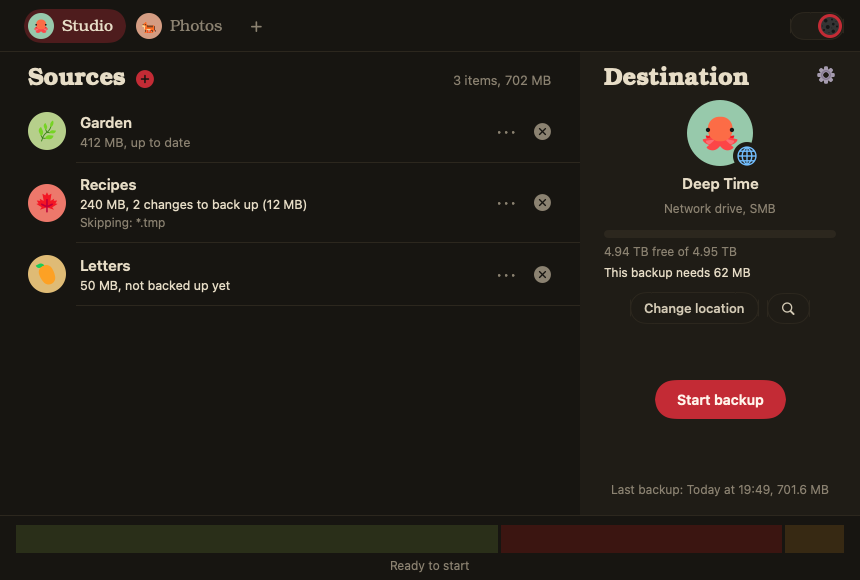
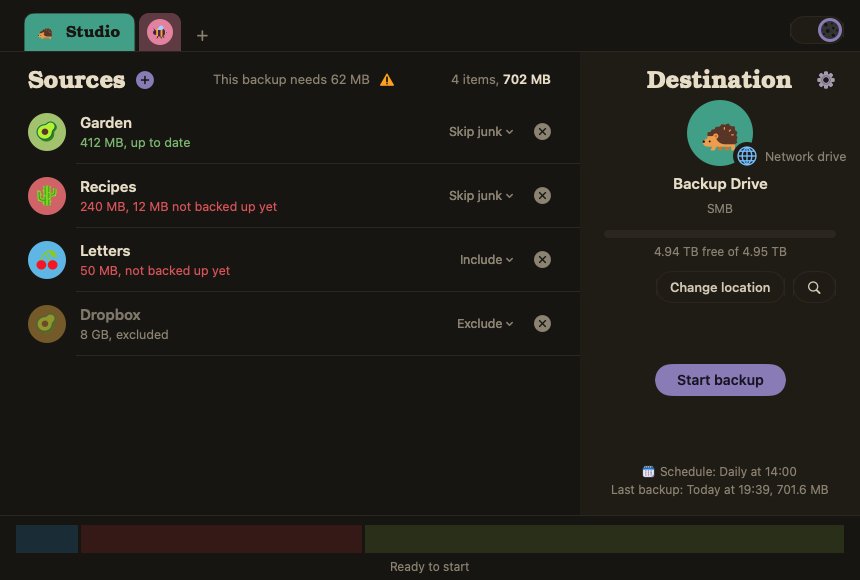
Archivist: new mark (Thoth on lavender), current window shots, docs re-rendered

diff --git a/site/docs/archivist/04-settings.html b/site/docs/archivist/04-settings.html
@@ -35,7 +35,7 @@
   </nav>
   <main>
 <h1 id="settings">Settings</h1>
-<p>The ⚙ at the top right of the Destination panel opens the settings of the selected backup.</p>
+<p>The ⚙ at the top right of the Destination panel, or the <strong>Scheduled backup</strong> line under it, opens the settings of the selected backup. Click outside the panel to close it.</p>
 <p><a class="shot" href="img/settings.png" target="_blank" rel="noopener"><span class="shot-bar" aria-hidden="true"><i></i><i></i><i></i></span><img alt="The settings sheet: name, picture, colour, schedule, earlier versions" src="img/settings.png" /></a></p>
 <h2 id="name-picture-colour">Name, picture, colour</h2>
 <p>The name is the backup's title in the tabs along the top. The picture and colour mark it everywhere: on its tab, on the destination, on the folder it writes. Pick any of the animals and any of the colours.</p>
@@ -47,8 +47,8 @@
 <li><strong>Once a day</strong>, at the time you choose.</li>
 <li><strong>Once a week</strong>, on the day and at the time you choose.</li>
 </ul>
-<p>Scheduled backups run in the background without a window, through a small helper that macOS starts for you. The first time you choose a schedule, macOS asks you to allow Archivist in <strong>System Settings → General → Login Items &amp; Extensions</strong>. If a scheduled backup skips files, you get a notification.</p>
-<p>A scheduled backup that finds the drive unplugged does nothing and tries again at the next slot. A Mac that was asleep at the scheduled time runs the backup when it wakes.</p>
+<p>Scheduled backups run while Archivist is open. Closing the window keeps Archivist running; quitting it stops the schedule until you open it again. A backup that was due while Archivist was closed runs when you open it.</p>
+<p>A scheduled backup that finds the drive unplugged does nothing and tries again at the next slot. A Mac that was asleep at the scheduled time runs the backup when it wakes, if Archivist is open.</p>
 <h2 id="earlier-versions">Earlier versions</h2>
 <ul>
 <li><strong>Keep deleted files</strong>: a file that disappears from the source is moved into the archive, not removed from the backup.</li>

diff --git a/site/docs/archivist/03-first-backup.html b/site/docs/archivist/03-first-backup.html
@@ -38,14 +38,12 @@
 <p>A backup has sources (what to copy), a destination (where it goes), and one button.</p>
 <p><a class="shot" href="img/empty.png" target="_blank" rel="noopener"><span class="shot-bar" aria-hidden="true"><i></i><i></i><i></i></span><img alt="A new backup, waiting for its sources and destination" src="img/empty.png" /></a></p>
 <h2 id="1-sources">1. Sources</h2>
-<p>Drop folders, or a whole drive, on the left side, or click the dashed box and choose. Each source gets its own picture and colour, a size, and a line saying where it stands: "not backed up yet", "2 changes to back up (12 MB)", "up to date".</p>
-<p>The <strong>⋯</strong> menu on a source row:</p>
+<p>Drop folders, or a whole drive, on the left side, or click the dashed box and choose. Each source gets its own picture and colour, a size, and a line saying where it stands: "not backed up yet", "12 MB not backed up yet", "up to date".</p>
+<p>On the right of each source, a menu says what happens to that folder:</p>
 <ul>
-<li><strong>Pause</strong>: keep the source in the list but don't copy it until you choose Resume.</li>
-<li><strong>Skip a folder inside…</strong>: choose folders inside this source to leave out.</li>
-<li><strong>Skip junk files</strong>: leave out caches, temp files and <code>node_modules</code>.</li>
-<li><strong>Copy everything again</strong>: ignore what is already there and copy the whole source afresh.</li>
-<li><strong>Show in Finder</strong>.</li>
+<li><strong>Skip junk</strong> (the default): copy the folder, but leave out caches, temp files, and build folders that rebuild from the code beside them, such as <code>node_modules</code>, or <code>target</code> next to a <code>Cargo.toml</code>.</li>
+<li><strong>Include</strong>: copy every file in the folder.</li>
+<li><strong>Exclude</strong>: do not copy this folder. To leave a folder out of a bigger one, drop both in: the big folder as Skip junk or Include, the folder inside it (a Dropbox folder, say) as Exclude.</li>
 </ul>
 <p>The <strong>ⓧ</strong> removes the source from the backup. Nothing at the destination is touched by that.</p>
 <h2 id="2-destination">2. Destination</h2>
